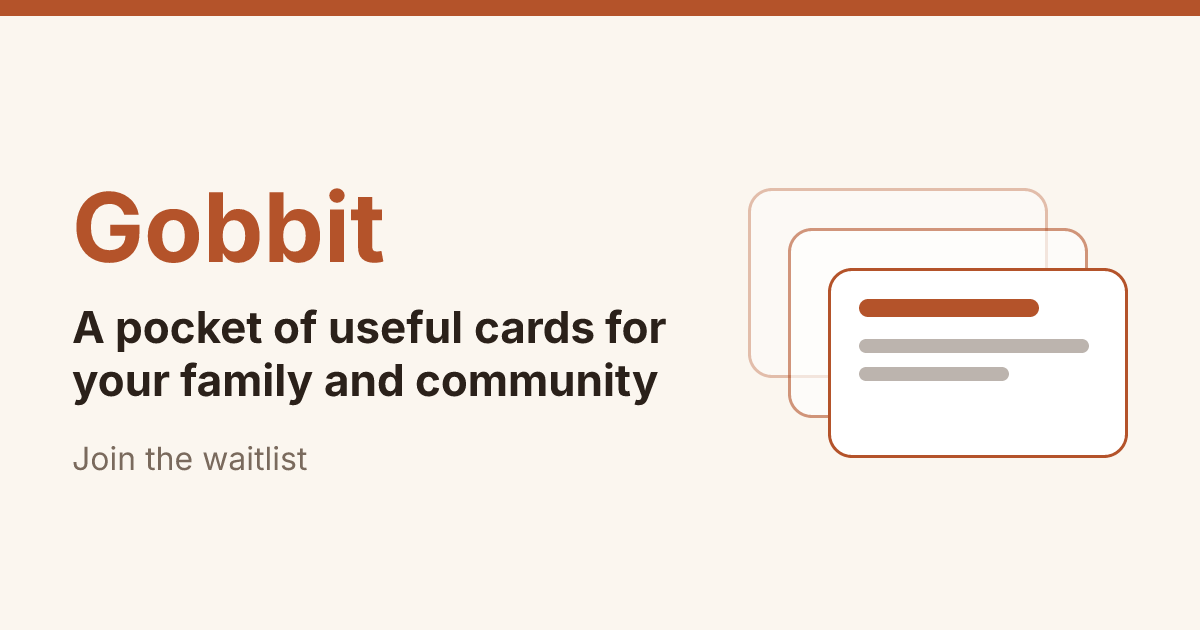
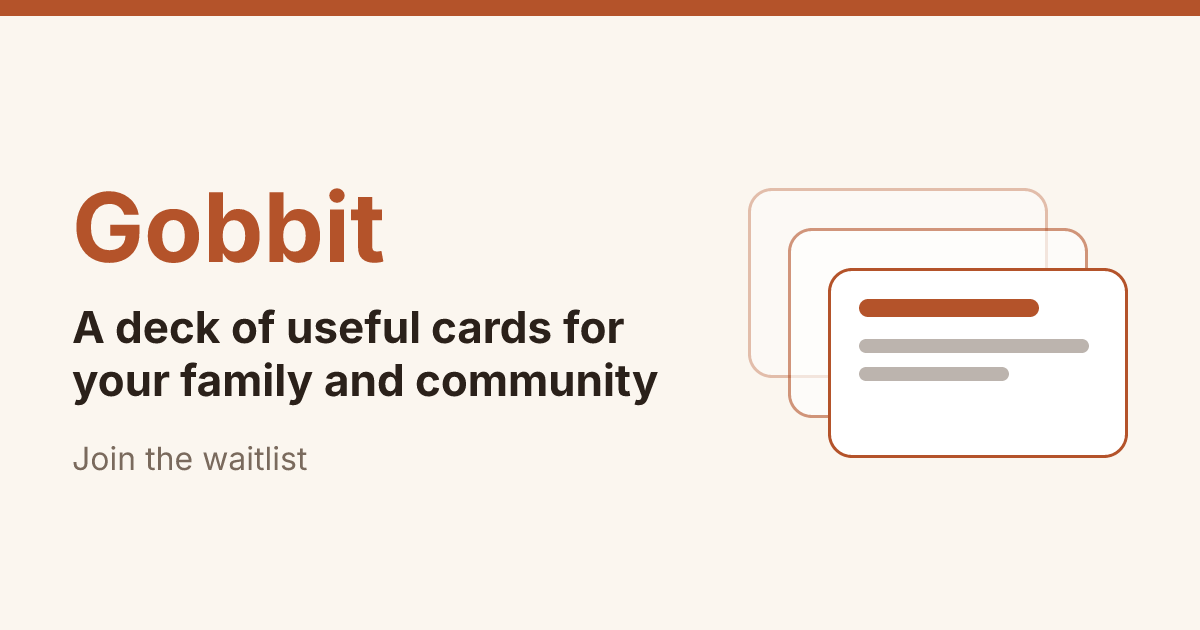
chore(api,web): tagline copy — "pocket" → deck and gobbit
Marketing and explanatory copy now matches the naming: plain "deck"
in titles, meta/manifest descriptions and the OG image; a playful
"gobbit" in the landing hero and the sign-in lead. Regenerated the
static landing OG image; spec 030 contract updated to the new title.

Changed region(s): [[0.0925, 0.4825, 0.555, 0.573]]

diff --git a/apps/api/src/public/landing-copy.ts b/apps/api/src/public/landing-copy.ts
@@ -8,12 +8,12 @@ export const LANDING_COPY_EN = {
   lang: 'en',
   dir: 'ltr',
   locale: 'en_US',
-  title: 'Gobbit — a pocket of useful cards for your family and community',
+  title: 'Gobbit — a deck of useful cards for your family and community',
   description:
     'Keep the phone numbers, how-tos, links and recipes your people keep asking about as short cards anyone can find in seconds, even offline.',
   header: { signIn: 'Sign in', openApp: 'Open Gobbit' },
   hero: {
-    heading: 'A pocket of useful cards',
+    heading: 'Every useful gobbit, in one deck',
     lead: 'Gobbit keeps the things your family or community keeps asking about — phone numbers, how-tos, links, recipes — as short cards anyone can find in seconds, even offline.',
     invite: "We're letting people in a few at a time. Join the waitlist and we'll email you.",
   },

diff --git a/apps/web/index.html b/apps/web/index.html
@@ -4,7 +4,7 @@
     <meta charset="UTF-8" />
     <meta name="viewport" content="width=device-width, initial-scale=1, viewport-fit=cover" />
     <meta name="theme-color" content="#b4532a" />
-    <meta name="description" content="Gobbit — your family's pocket of useful cards" />
+    <meta name="description" content="Gobbit — your family's deck of useful cards" />
     <link rel="icon" href="/favicon.svg" type="image/svg+xml" />
     <link rel="apple-touch-icon" href="/icons/icon-192.png" />
     <title>Gobbit</title>

diff --git a/apps/api/src/share/og-template.ts b/apps/api/src/share/og-template.ts
@@ -322,7 +322,7 @@ export function landingTree(): OgNode {
             style: { display: 'flex', flexDirection: 'column', width: 620 },
             children: [
               textNode('Gobbit', { fontSize: 96, fontWeight: 700, color: OG_COLORS.accent }),
-              textNode('A pocket of useful cards for your family and community', {
+              textNode('A deck of useful cards for your family and community', {
                 fontSize: 44,
                 fontWeight: 700,
                 color: OG_COLORS.text,

diff --git a/apps/web/src/routes/sign-in.tsx b/apps/web/src/routes/sign-in.tsx
@@ -22,7 +22,7 @@ function SignIn() {
   return (
     <main className="page page--narrow">
       <h1 className="brand">Gobbit</h1>
-      <p className="lead">Your family's pocket of useful cards.</p>
+      <p className="lead">Your family's deck of useful gobbits.</p>
       <SignInForm onSubmit={requestLink} />
       {/* D226: a plain anchor; /welcome is API-rendered, outside the SPA. */}
       <p className="sign-in__join">

diff --git a/apps/api/src/share/og-template.test.ts b/apps/api/src/share/og-template.test.ts
@@ -166,7 +166,7 @@ describe('landingTree (D229)', () => {
     expect(tree.props.style).toMatchObject({ width: OG_WIDTH, height: OG_HEIGHT });
     expect(collectText(tree)).toEqual([
       'Gobbit',
-      'A pocket of useful cards for your family and community',
+      'A deck of useful cards for your family and community',
       'Join the waitlist',
     ]);
   });

diff --git a/apps/web/vite.config.ts b/apps/web/vite.config.ts
@@ -23,7 +23,7 @@ export default defineConfig({
         id: '/',
         name: 'Gobbit',
         short_name: 'Gobbit',
-        description: "Your family's pocket of useful cards",
+        description: "Your family's deck of useful cards",
         lang: 'en',
         start_url: '/',
         scope: '/',

diff --git a/specs/030-landing-page/contracts/landing-pages.md b/specs/030-landing-page/contracts/landing-pages.md
@@ -52,13 +52,13 @@ CSP is unchanged (Caddy): the page uses only inline styles (`style-src 'self' 'u
 
 ```html
 <html lang="en" dir="ltr">
-<title>Gobbit — a pocket of useful cards for your family and community</title>
+<title>Gobbit — a deck of useful cards for your family and community</title>
 <meta name="description" content="…≤ 160 characters…">
 <link rel="canonical" href="https://app.example.test/">
 <meta name="robots" content="index">                      <!-- noindex for the 400 re-render -->
 <meta property="og:site_name" content="Gobbit">
 <meta property="og:type" content="website">
-<meta property="og:title" content="Gobbit — a pocket of useful cards for your family and community">
+<meta property="og:title" content="Gobbit — a deck of useful cards for your family and community">
 <meta property="og:description" content="…">
 <meta property="og:url" content="https://app.example.test/">
 <meta property="og:image" content="https://app.example.test/og/landing.png">
